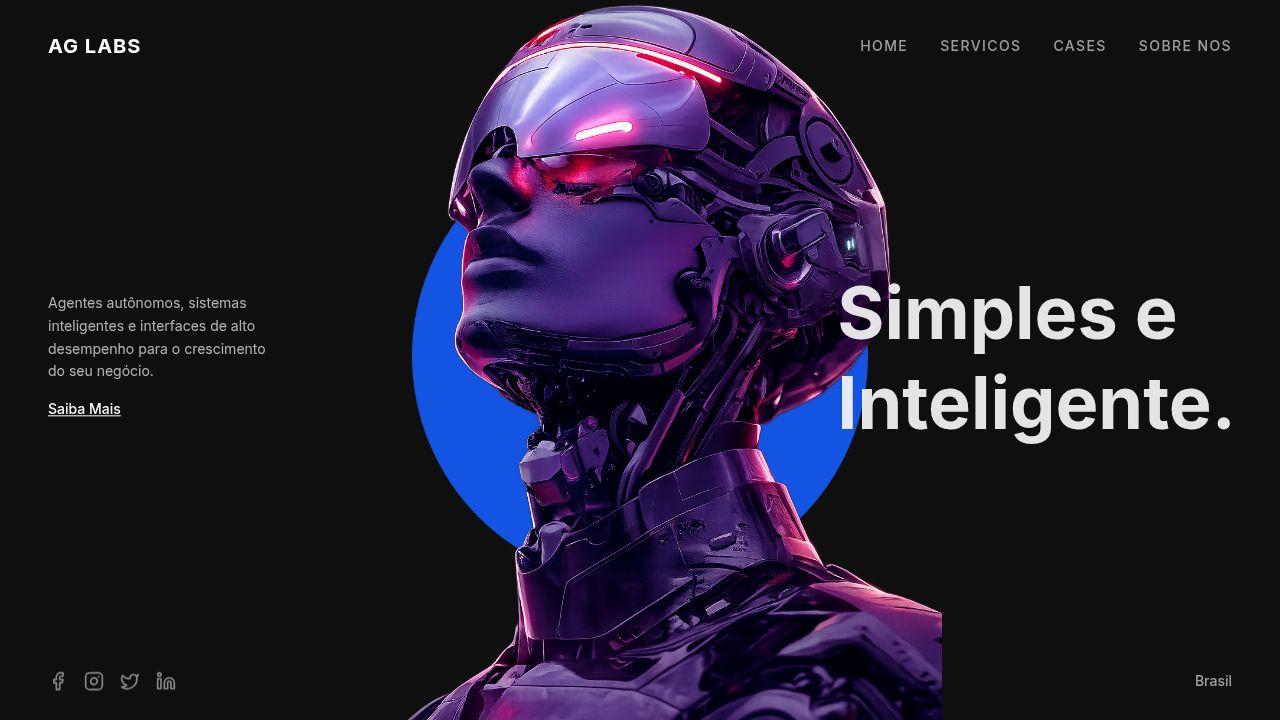
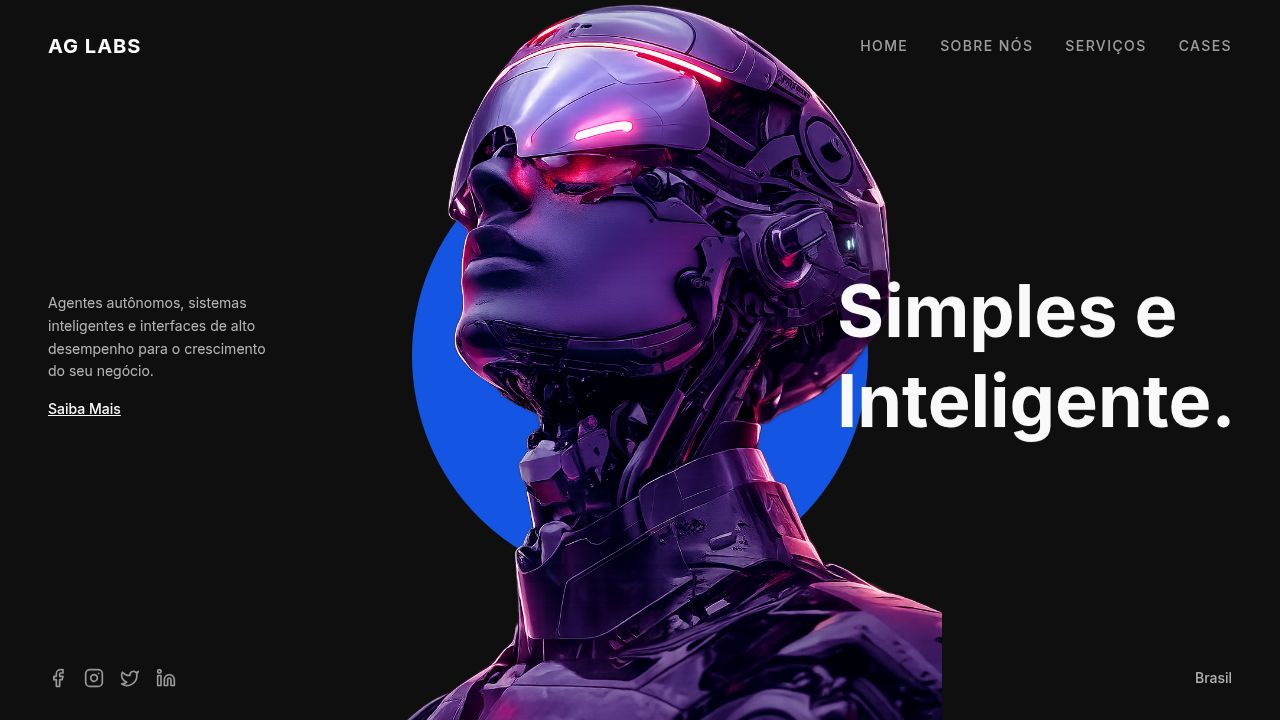
Add a professional footer with navigation and social links to the homepage
Integrates a new `Footer` component into the `home.tsx` page and introduces the `footer-section.tsx` component, enhancing the website's structure and user navigation.

Replit-Commit-Author: Agent
Replit-Commit-Session-Id: 600bfbde-320e-4e43-9b92-2f10f9d4f885
Replit-Commit-Checkpoint-Type: full_checkpoint
Replit-Commit-Event-Id: d4714fc8-2315-404e-a1db-9ff59950fdf2
Replit-Commit-Screenshot-Url: https://storage.googleapis.com/screenshot-production-us-central1/fd707955-9f90-44fd-991f-23b345fb1d20/600bfbde-320e-4e43-9b92-2f10f9d4f885/vcAqlla
Replit-Helium-Checkpoint-Created: true

diff --git a/artifacts/ai-agency/src/components/ui/footer-section.tsx b/artifacts/ai-agency/src/components/ui/footer-section.tsx
@@ -1,0 +1,126 @@
+'use client';
+import React from 'react';
+import type { ComponentProps, ReactNode } from 'react';
+import { motion, useReducedMotion } from 'framer-motion';
+import { FacebookIcon, InstagramIcon, LinkedinIcon, TwitterIcon } from 'lucide-react';
+
+interface FooterLink {
+  title: string;
+  href: string;
+  icon?: React.ComponentType<{ className?: string }>;
+}
+
+interface FooterSection {
+  label: string;
+  links: FooterLink[];
+}
+
+const footerLinks: FooterSection[] = [
+  {
+    label: 'Navegação',
+    links: [
+      { title: 'Início', href: '#' },
+      { title: 'Sobre Nós', href: '#sobre-nos' },
+      { title: 'Serviços', href: '#services' },
+      { title: 'Cases', href: '#cases' },
+    ],
+  },
+  {
+    label: 'Serviços',
+    links: [
+      { title: 'Corporate Agent', href: 'https://rag.aglabs.api.br/' },
+      { title: 'Websites que Vendem', href: 'https://lp.aglabs.ia.br/' },
+      { title: 'Software Performance', href: '#' },
+      { title: 'Workflows Inteligence', href: '#' },
+    ],
+  },
+  {
+    label: 'Empresa',
+    links: [
+      { title: 'Sobre a AG LABS', href: '#sobre-nos' },
+      { title: 'Política de Privacidade', href: '#' },
+      { title: 'Termos de Uso', href: '#' },
+      { title: 'Contato', href: '#' },
+    ],
+  },
+  {
+    label: 'Redes Sociais',
+    links: [
+      { title: 'Facebook', href: '#', icon: FacebookIcon },
+      { title: 'Instagram', href: '#', icon: InstagramIcon },
+      { title: 'Twitter', href: '#', icon: TwitterIcon },
+      { title: 'LinkedIn', href: '#', icon: LinkedinIcon },
+    ],
+  },
+];
+
+export function Footer() {
+  return (
+    <footer className="relative w-full border-t border-border/30 bg-[radial-gradient(35%_128px_at_50%_0%,theme(backgroundColor.white/5%),transparent)] px-6 py-12 lg:py-16">
+      <div className="bg-foreground/20 absolute top-0 right-1/2 left-1/2 h-px w-1/3 -translate-x-1/2 -translate-y-px rounded-full blur" />
+
+      <div className="mx-auto max-w-6xl grid w-full gap-8 xl:grid-cols-3 xl:gap-8">
+        <AnimatedContainer className="space-y-4">
+          <span className="text-xl font-bold tracking-widest text-white">AG LABS</span>
+          <p className="text-muted-foreground mt-4 text-sm leading-relaxed max-w-xs">
+            Agentes autônomos, sistemas inteligentes e interfaces de alto desempenho para o crescimento do seu negócio.
+          </p>
+          <p className="text-muted-foreground text-xs pt-2">
+            © {new Date().getFullYear()} AG LABS. Todos os direitos reservados.
+          </p>
+        </AnimatedContainer>
+
+        <div className="mt-10 grid grid-cols-2 gap-8 md:grid-cols-4 xl:col-span-2 xl:mt-0">
+          {footerLinks.map((section, index) => (
+            <AnimatedContainer key={section.label} delay={0.1 + index * 0.1}>
+              <div className="mb-10 md:mb-0">
+                <h3 className="text-xs font-semibold uppercase tracking-wider text-white/60">{section.label}</h3>
+                <ul className="text-muted-foreground mt-4 space-y-2 text-sm">
+                  {section.links.map((link) => (
+                    <li key={link.title}>
+                      <a
+                        href={link.href}
+                        target={link.href.startsWith('http') ? '_blank' : undefined}
+                        rel={link.href.startsWith('http') ? 'noopener noreferrer' : undefined}
+                        className="hover:text-white inline-flex items-center transition-all duration-300"
+                      >
+                        {link.icon && <link.icon className="me-1.5 size-4" />}
+                        {link.title}
+                      </a>
+                    </li>
+                  ))}
+                </ul>
+              </div>
+            </AnimatedContainer>
+          ))}
+        </div>
+      </div>
+    </footer>
+  );
+}
+
+type ViewAnimationProps = {
+  delay?: number;
+  className?: ComponentProps<typeof motion.div>['className'];
+  children: ReactNode;
+};
+
+function AnimatedContainer({ className, delay = 0.1, children }: ViewAnimationProps) {
+  const shouldReduceMotion = useReducedMotion();
+
+  if (shouldReduceMotion) {
+    return <>{children}</>;
+  }
+
+  return (
+    <motion.div
+      initial={{ filter: 'blur(4px)', translateY: -8, opacity: 0 }}
+      whileInView={{ filter: 'blur(0px)', translateY: 0, opacity: 1 }}
+      viewport={{ once: true }}
+      transition={{ delay, duration: 0.8 }}
+      className={className}
+    >
+      {children}
+    </motion.div>
+  );
+}

diff --git a/artifacts/ai-agency/src/pages/home.tsx b/artifacts/ai-agency/src/pages/home.tsx
@@ -5,6 +5,7 @@ import AboutSection from "@/components/ui/about-section";
 import { FeatureCarousel } from "@/components/ui/feature-carousel";
 import ElegantCarousel from "@/components/ui/elegant-carousel";
 import TechMarquee from "@/components/ui/tech-marquee";
+import { Footer } from "@/components/ui/footer-section";
 
 const HomePage = () => {
   const navLinks = [
@@ -60,6 +61,7 @@ const HomePage = () => {
       <div id="cases">
         <ElegantCarousel />
       </div>
+      <Footer />
     </>
   );
 };